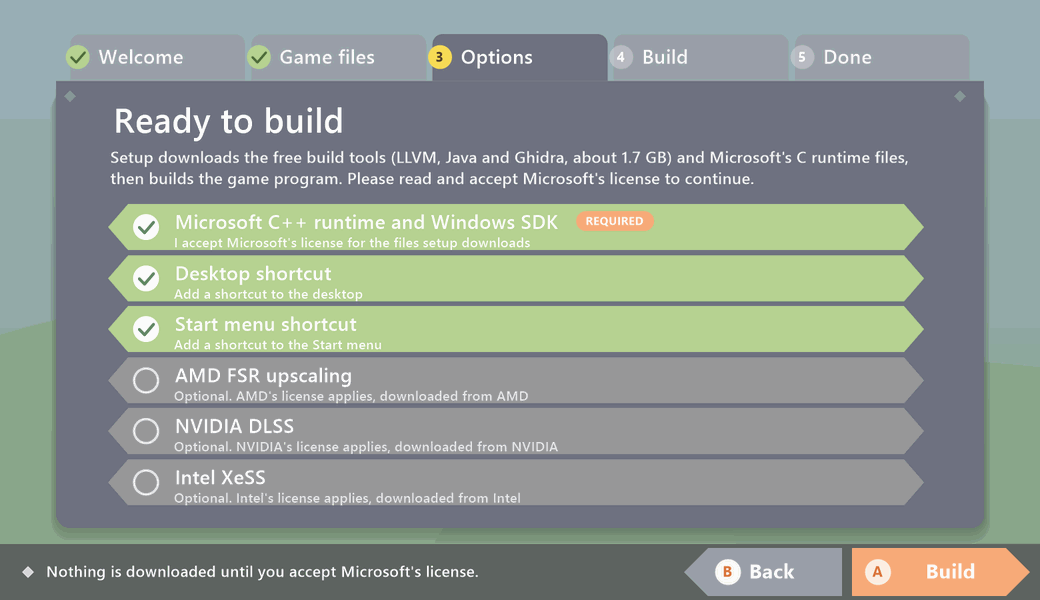
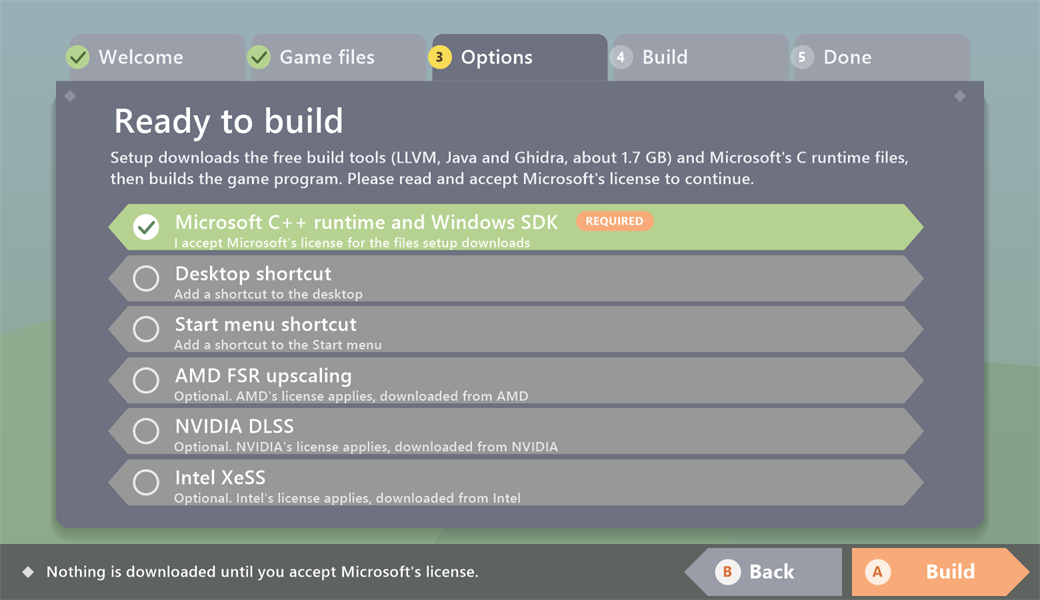
Docs: one exe, the portable install folder, setup flags and launcher-action flags
- docs/install-folder.md (new): what the one exe does, the folder layout, moving the folder, saves from
  1.2.0 and earlier, shortcuts and uninstalling, updates
- docs/command-line.md: launcher actions, setup flags of the top exe, the portable data folder
- README.md, builder/README.md, builder/release/README.md, NOTES_TEMPLATE.md: SnapRecomp.exe is the one
  download; the builder zip is no longer a release asset
- setup screenshots re-rendered from the current wizard (shortcuts start unticked)
- AGENTS.md: the release-standards decisions and what was not verified

Changed region(s): [[0.0923, 0.42, 0.8923, 0.6]]

diff --git a/builder/README.md b/builder/README.md
@@ -6,11 +6,11 @@ This builder turns your own copy of the game into a native Windows program. It r
 
 The project contains no game data and does not help you get any. You need a legal copy of the game, version 2.0.1, and you extract the files from it yourself with your own tools.
 
-You can build two ways. `SnapRecompSetup.exe` (on the release page) is a one-click window: pick your game folder and press Build (see "One-click setup" below). The command line, described in the rest of this file, does the same job. The finished `SnapRecomp.exe` is its own launcher with a window: Play, settings, saves, mods, HD textures, Add to Steam and updates (see "Starting the game" below).
+You can build two ways. `SnapRecomp.exe` (on the release page) is a one-click window until the game is built: pick your game folder and press Build (see "One-click setup" below). After the build the same exe starts the game. The command line, described in the rest of this file, does the same job. The finished `SnapRecomp.exe` is its own launcher with a window: Play, settings, saves, mods, HD textures, Add to Steam and updates (see "Starting the game" below).
 
 ## One-click setup
 
-`SnapRecompSetup.exe` finds your game files, downloads the pinned build tools, builds the game and adds a desktop and a Start menu shortcut. It needs no terminal, no Python and no Visual Studio. The game folder can hold the extracted `main`, `sdk` and RomFS, or your dumped base game (XCI or NSP), your update NSPs and your `prod.keys`. With a raw dump, setup picks the base game and the 2.0.1 update by title ID, ignores older updates and extracts only what it needs into its own work folder. It reads your dump and keys in place: keys are never copied and never written to a log. The Microsoft C runtime and Windows SDK files come from Microsoft after you accept their license in the wizard. Plan on about 30 GB of free disk space and about an hour for the first build. Setup also repairs and uninstalls.
+`SnapRecomp.exe` finds your game files, downloads the pinned build tools and builds the game into its own folder. It needs no terminal, no Python and no Visual Studio. Desktop and Start menu shortcuts are options that start unticked, and setup adds nothing to Windows' installed-apps list ([docs/install-folder.md](../docs/install-folder.md)). The game folder can hold the extracted `main`, `sdk` and RomFS, or your dumped base game (XCI or NSP), your update NSPs and your `prod.keys`. With a raw dump, setup picks the base game and the 2.0.1 update by title ID, ignores older updates and extracts only what it needs into its own work folder. It reads your dump and keys in place: keys are never copied and never written to a log. The Microsoft C runtime and Windows SDK files come from Microsoft after you accept their license in the wizard. Plan on about 30 GB of free disk space and about an hour for the first build. Setup also repairs and uninstalls.
 
 <p align="center">
   <img src="release/screenshots/setup_1_welcome.png" alt="Setup wizard, welcome page" width="49%">
@@ -59,7 +59,7 @@ python builder/snap_builder.py pyenv
 
 - `fetch` asks before every download, shows the URL and the size, checks the SHA-256 while the file arrives, and deletes the file if it does not match. `--yes` answers yes to every question. Without a terminal and without `--yes` it downloads nothing.
 - Files you already have are used without asking when their hash matches. `--offline-dir <folder>` points at a folder of downloaded files, so a PC without internet can use them.
-- Tools unpack into `%LOCALAPPDATA%\SnapRecomp\tools` (change it with `--tools-dir`). The builder looks there after its own `tools` folder.
+- Tools unpack into the `tools` folder next to the downloaded exe, or into `%LOCALAPPDATA%\SnapRecomp\tools` when the builder runs from a source checkout (change it with `--tools-dir`). An install with no `tools` folder yet reuses the tools an older version left in `%LOCALAPPDATA%`.
 - `winsdk --accept-license` fetches the Microsoft C runtime and Windows SDK files with the pinned xwin, from Microsoft's own servers, after you accept Microsoft's license (the license link is in `python builder/snap_builder.py winsdk --help`). Use it when Visual Studio Build Tools is not installed. `build --winsdk vs|xwin|auto` chooses the source, and `auto` (the default) takes Visual Studio first.
 - `pyenv` builds a Python with `capstone`, `pyelftools`, `numpy` and `lz4` from pinned wheels. pip runs with `--require-hashes`, `--no-deps` and `--no-index`, so it installs only the pinned files. It uses the pinned python.org embeddable Python, or `--base-python <python.exe>` makes a venv of Python 3.14 you already have.
 - The download sizes are large: LLVM is about 0.9 GB, Ghidra 0.6 GB and the JDK 0.2 GB. Ghidra, its Switch loader and the JDK are only needed when you do not pass `--maps`.
@@ -95,7 +95,7 @@ A rebuild never touches a working `out/` until the new build is proven. The buil
 
 Each step records what it used. If you run the builder again with the same work folder, finished steps are skipped, and an interrupted compile resumes where it stopped.
 
-The function lists and the generated C are also kept in a private cache, `%LOCALAPPDATA%\SnapRecomp\cache` (`--cache-dir` moves it, `--no-cache` skips it). Entries are keyed on the hashes of your game files and the builder's own inputs, so a new work folder with the same game files restores them instead of running Ghidra or the lifter again. The cache holds game-derived files on your PC only. It refuses a folder it did not create, keeps two entries per kind and stays under 1 GiB.
+The function lists and the generated C are also kept in a private cache, the `cache` folder next to the downloaded exe or `%LOCALAPPDATA%\SnapRecomp\cache` for a source checkout (`--cache-dir` moves it, `--no-cache` skips it). Entries are keyed on the hashes of your game files and the builder's own inputs, so a new work folder with the same game files restores them instead of running Ghidra or the lifter again. The cache holds game-derived files on your PC only. It refuses a folder it did not create, keeps two entries per kind and stays under 1 GiB.
 
 Binary patches are off in this release. If a `builder/patches/` folder ever holds patch files, the builder applies only those listed in `reviewed.json`, only to a module whose hash and build ID match, and only where the original bytes match.
 
@@ -117,7 +117,7 @@ Double-click `SnapRecomp.exe` in the `out` folder. With no command-line argument
 - A small window offers Play, "Change game folder...", "Open save folder", save import and export, upscalers and Updates.
 - Play passes the converted game files and the RomFS path to the game, with no arguments from you.
 - The first launch translates the game's shaders with the `shader_harness` program next to the exe (a self-contained build of the MIT-licensed Ryubing shader translator; its notice is in `shader_harness`). Translated shaders go to `%LOCALAPPDATA%\SnapRecomp\nvn_cache`, so the first start takes several minutes and later starts are fast. The log shows a progress line every 100 shaders.
-- Logs go to `%LOCALAPPDATA%\SnapRecomp\logs`. The icon is an original fallback icon, not the game's.
+- Logs go to `portable_data\Local\SnapRecomp\logs` next to the built exe (`%LOCALAPPDATA%\SnapRecomp\logs` for a development build). The icon is an original fallback icon, not the game's.
 
 ## Function lists
 

diff --git a/builder/release/README.md b/builder/release/README.md
@@ -2,17 +2,17 @@
 
 Works with your own copy of New Pokémon Snap 2.0.1.
 
-This builder turns your own copy of the game into a native Windows program. It reads the files you supply, translates the game's code on your PC, compiles it and links it with the prebuilt runtime in this zip. The result is `SnapRecomp.exe` in the `out` folder of your work folder.
+This builder turns your own copy of the game into a native Windows program. It reads the files you supply, translates the game's code on your PC, compiles it and links it with the prebuilt runtime that ships inside `SnapRecomp.exe`. The result is `SnapRecomp.exe` in the `out` folder of your work folder.
 
-The easy way is `SnapRecompSetup.exe`: double-click it, pick your game folder, press Build. No terminal, no Python and no Visual Studio are needed. The manual command-line route further down still works and does the same job.
+The easy way is the downloaded `SnapRecomp.exe`: put it in a folder of its own, double-click it, pick your game folder, press Build. Everything it makes stays in that folder. No terminal, no Python and no Visual Studio are needed. The manual command-line route further down still works and does the same job.
 
-The program it makes, `SnapRecomp.exe`, opens a launcher window when you double-click it.
+Once the game is built, the same `SnapRecomp.exe` opens the game's launcher window when you double-click it.
 
 The download holds no game data and does not help you get any. You need a legal copy of the game, version 2.0.1, and you dump it yourself with your own tools.
 
 ## One-click setup
 
-1. Double-click `SnapRecompSetup.exe`.
+1. Double-click `SnapRecomp.exe`.
 2. Choose your game folder. Drop it on the window or press Browse. It can be:
    - a folder with the extracted `main`, `sdk` and RomFS, or
    - a folder with your dumped base game (XCI or NSP), your update NSPs and your `prod.keys`.
@@ -20,7 +20,7 @@ The download holds no game data and does not help you get any. You need a legal 
    Setup finds the files itself. With a raw dump it picks the base game and the 2.0.1 update (older updates in the folder are ignored) and extracts what it needs into its own work folder. Your dump is read in place and never changed. Keys are read where they are, never copied, and are not written to any log. If setup looks for `prod.keys` in an emulator folder, it asks first. If the 2.0.1 update is missing it says so and stops.
 3. Check the options and the disk-space line, then press Build. One bar shows the stage and the time left. "Show details" opens the log. If something fails, the message says what to do and Retry picks up where it stopped. Closing setup or a reboot loses nothing: start it again and it continues.
 4. Setup downloads the build tools from their publishers and checks every file against a pinned SHA-256 hash. The Windows SDK pieces come from Microsoft after you accept Microsoft's license in the wizard. They are not in the download.
-5. At the end you get a desktop and a Start menu shortcut and a Play now button. HD textures and upscalers are optional pages; each vendor license is shown before anything downloads.
+5. At the end you get a Play now button. Desktop and Start menu shortcuts are made only when you tick them on the options page. HD textures and upscalers are optional pages; each vendor license is shown before anything downloads.
 
 ![Setup: welcome](screenshots/setup_1_welcome.png)
 ![Setup: options and disk space](screenshots/setup_3_options.png)
@@ -29,7 +29,7 @@ The download holds no game data and does not help you get any. You need a legal 
 
 Setup remembers your game folder. A repair, a rebuild or an update reuses it without asking. "Change game folder" is on the maintenance page. If the files moved, it asks once.
 
-Run `SnapRecompSetup.exe` again later to Repair (rebuild with the same game files) or Uninstall (removes the shortcuts, the built program and the game data setup extracted; the build tools and your saves stay unless you tick the matching box; your own game files are never touched). Nothing is deleted behind your back while the game is installed: the extracted RomFS stays, because the game reads it every time it runs.
+Run `SnapRecomp.exe --setup` later to Repair (rebuild with the same game files) or Uninstall (removes the shortcuts, the built program and the game data setup extracted; the build tools and your saves stay unless you tick the matching box; your own game files are never touched). Nothing is deleted behind your back while the game is installed: the extracted RomFS stays, because the game reads it every time it runs.
 
 Time: the first build takes about an hour on a fast PC, most of it the Ghidra step (15 to 30 minutes) and the compile. The last step starts the new game once to check it reaches the title screen. That first start translates the game's shaders and takes about 8 minutes, so setup waits up to 20 minutes before it calls it a failure. A rebuild with the same game files takes a few minutes.
 
@@ -55,7 +55,7 @@ Everything above can be done from a terminal. The sections below describe that r
 | A Vulkan 1.3 graphics driver | Needed to run the game and for the last build step. |
 | Python 3.14 | Only to start the builder. The builder installs its own pinned Python packages with `pyenv`. Python 3.14 is what was tested. |
 | Microsoft C runtime and Windows SDK files | Either Visual Studio Build Tools 2022 (the "Desktop development with C++" workload, free from Microsoft), or the files that `python builder\snap_builder.py winsdk --accept-license` downloads from Microsoft after you accept their license. `build --winsdk auto` (the default) uses Visual Studio when it is installed. |
-| Your game files | For the command line: `main` and `sdk` from the game's program files, and the patched RomFS folder, all from version 2.0.1. `SnapRecompSetup.exe` also takes your dumped base game (XCI or NSP), the update NSPs and your `prod.keys`. |
+| Your game files | For the command line: `main` and `sdk` from the game's program files, and the patched RomFS folder, all from version 2.0.1. The one-click setup also takes your dumped base game (XCI or NSP), the update NSPs and your `prod.keys`. |
 | Disk and memory | About 15 GB free on the drive that holds the tools, the work folder and the caches (measured on a clean PC: the unpacked tools 5.5 GB plus 1.6 GB of kept downloads, the work folder 3 GB, the builder's caches 0.6 GB, and the shader cache about 2 GB after the first start). 16 GB of RAM for the Ghidra step, 8 GB without it. |
 | Internet, once | To download the pinned build tools and, if you choose, upscalers. |
 
@@ -97,7 +97,7 @@ The first start translates the game's shaders and takes several minutes. Later s
 
 ## What it never does
 
-- It never copies, uploads or ships your game files. It reads them and writes only inside the work folder and its own caches (`%LOCALAPPDATA%\SnapRecomp`).
+- It never copies, uploads or ships your game files. It reads them and writes only inside the folder the exe is in (a builder run from the command line: its work folder and `%LOCALAPPDATA%\SnapRecomp`).
 - It never downloads anything without asking, and it checks every download against a published hash.
 - Upscalers (FSR, DLSS, XeSS) are not in this zip. The launcher can fetch them from their publishers after you read and accept each license.
 

diff --git a/AGENTS.md b/AGENTS.md
@@ -757,3 +757,15 @@ Fx verdict (2026-11-14, worker "fx"): contact shadows DROPPED as a user option (
 ## Player cheats (2026-11-15, worker "access")
 
 - F1 menu tab "Cheats" (`runtime/ui/ui_cheats.cpp`) over `runtime/hle/cheats.{h,cpp}`; Atmosphere-format VM from Codex's patch in `runtime/hle/cheat/` (own tests, `build.bat`; `cheat_vm.cpp` is compiled by unity include from `cheats.cpp` because the build globs only `runtime/hle/*.cpp`). File: `cheats/<build id>.txt` (full id or its first 16 chars) next to the exe; `SNAP_CHEATS` / key `cheats_enabled` master switch (off by default, file not even read), `SNAP_CHEATS_ON` / key `cheats_on` enabled names joined with `|`, `SNAP_CHEATS_DIR` for tests. Runs once per presented frame from `hid.cpp::write_npad_state`; memory goes through `VirtualQuery`-checked host pointers (heap base from `runtime/os/cheat_heap.cpp`, main/ASLR `0x7100000000`, no alias region), keys from `input::hub().pad().buttons` (the Switch key layout the cheat format uses). A bad address fails that run, logs the line once and switches that cheat off (the others keep running); it never crashes. This game never sets a memory heap (log `cheats: memory heap base 0`), so heap-addressed cheats fail; main-addressed ones work. No cheat file ships and none came from the internet. `Cheats active: yes/no` is in the problem report's `system.txt`. Native Settings row not done (rows are fixed, the list comes from a file). Details and verification: `docs/cheats.md`.
+
+## Release standards: one exe, portable, CLI flags (2026-11-17, worker "cliflags")
+
+Owner decisions of 2026-11-17, following `F:\AI\Recomps\AGENTS.md`. Player docs: `docs/install-folder.md`, `docs/command-line.md`.
+
+- **One exe.** The release asset is `SnapRecomp.exe` plus `SnapRecomp.exe.sig` (`builder/release_setup.py`): the setup program (`setup/setup_main.cpp`), then the builder as a zip, then a 16-byte trailer (payload size, `SNPSET01`). With no finished build in its folder (`work\out\SnapRecomp.exe` and `config.json`) it is the setup. With one it starts the built exe in a job object and passes flags, standard output and the exit code through. The builder zip is no longer a release asset.
+- **Portable by default.** The builder writes `portable.txt` into `out`, so saves, settings, mods, caches and logs live in `work\out\portable_data`. The setup folder, tools, cache and updater state sit under the exe's folder (`builder/snapbuild/paths.py`). The first portable start copies `%APPDATA%\SnapRecomp` (copy, never move) and says where saves now live (`host/portable.cpp`). A moved folder is corrected on the next start (`install_root` and `exe_rel` in `config.json`).
+- **No registry entry, shortcuts unticked.** Setup removes the installed-apps entry an older version made and makes a shortcut only when asked. Shortcuts point at the top exe.
+- **Updater.** `builder/snapbuild/update.py` verifies the signed exe, unpacks its payload, rebuilds, then renames the running top exe (named by `SNAP_TOP_EXE`) to `.old` and puts the new one in place. There is no bridge release: v1.2.0 players download the new exe by hand.
+- **Flags.** Game exe: `host/cli_flags.h` (player flags and the launcher actions `--update`, `--check-install`, `--report`, `--restore-backup`, `--upscalers`, `--hdtex`). Top exe: `--game`, `--build-dir`, `--yes`, `--setup`, `--repair`, `--uninstall`, `--desktop-shortcut`, `--start-menu-shortcut`.
+- **Tests.** `tests/hle/one_exe_test.py`, `folder_move_test.py`, `wizard_folder_test.py`, `portable_default_test.py`, `cli_flags_test.cpp`, `cli_flags_exe_test.py`; `builder/tests/test_update_exe.py`, `test_paths.py`, `test_setup_engine.py`.
+- **Not verified.** A full setup-to-game build through the one exe (about an hour) and an update against a real published one-exe release have not been run. The Linux tarball and AppImage standard (item 3 of the workspace standards) does not apply yet: there is no Linux build.

diff --git a/docs/install-folder.md b/docs/install-folder.md
@@ -1,0 +1,50 @@
+# The install folder
+
+A release is one file, `SnapRecomp.exe`. Put it in a folder of its own, on a drive with about 30 GB free, and start it. Everything it makes stays in that folder. Deleting the folder removes the game, your saves included.
+
+## What the exe does
+
+| State of its folder | What starting the exe does |
+| --- | --- |
+| No finished build | Opens the setup. It builds the game from your own game files into `work\out`. |
+| A finished build | Starts the game's launcher, the same as starting `work\out\SnapRecomp.exe` yourself. |
+
+Flags, text output and the exit code pass through to the game, so `SnapRecomp.exe --play --fullscreen` works from the top folder. Stopping the top exe stops the game it started. The flags the top exe keeps for itself are in [command-line.md](command-line.md#setup-flags).
+
+## What is in the folder
+
+```
+SnapRecomp.exe                               the file you downloaded
+setup\                                       the unpacked builder and the setup's own settings
+tools\                                       the build tools setup downloads (compiler, Ghidra, JDK)
+cache\                                       reusable build results
+work\                                        the build
+work\out\SnapRecomp.exe                      the built game
+work\out\portable_data\Roaming\SnapRecomp    saves, settings, profiles, mods, screenshots
+work\out\portable_data\Local\SnapRecomp      shader cache, logs
+work\updates\                                the updater's downloads and the previous version
+```
+
+Older docs name `%APPDATA%\SnapRecomp` and `%LOCALAPPDATA%\SnapRecomp`. In a release build read those as `work\out\portable_data\Roaming\SnapRecomp` and `work\out\portable_data\Local\SnapRecomp`. A development build started from a source checkout has no `portable.txt` and still uses the two Windows folders.
+
+## Moving the folder
+
+Close the game, move the whole folder, and start `SnapRecomp.exe` from the new place. The game corrects its saved paths on that start and prints `the game folder was moved; config.json now points at the new place`. Your game files are read where setup found them. If they sat outside the folder and you moved them too, pick the new game folder in the launcher.
+
+## Saves from version 1.2.0 and earlier
+
+Those versions kept saves in `%APPDATA%\SnapRecomp`. The first start of a newer version copies that folder into `work\out\portable_data` and tells you where your saves now live. It is a copy: the old folder is only read and stays as a backup. The shader cache and the updater's backups are not copied. Delete the old folder yourself once you have seen your save in the new version.
+
+The updater in 1.2.0 cannot install a one-exe release. Download the new `SnapRecomp.exe` by hand, put it in a new folder and run setup once. An older install reuses the build tools it left in `%LOCALAPPDATA%\SnapRecomp\tools`, so they are not downloaded again.
+
+## Shortcuts and uninstalling
+
+Setup makes no shortcut unless you tick one on its options page. A shortcut points at the top `SnapRecomp.exe`. Setup adds no entry to Windows' installed-apps list and removes the entry an older version made.
+
+To remove the game, delete the folder. `SnapRecomp.exe --uninstall` removes only the build and any shortcuts, and keeps your saves and the build tools.
+
+## Updates
+
+Updates in the launcher, or `SnapRecomp.exe --update`, downloads the new `SnapRecomp.exe`, checks its signature, rebuilds the game and then swaps the top exe for the new one. The old top exe is kept as `SnapRecomp.exe.old` until the next start. When the rebuild fails, nothing is swapped and the old version keeps working.
+
+Started directly from `work\out`, the game still updates its own build, but it cannot replace a top exe it was not started from. Download the new one by hand in that case.

diff --git a/docs/command-line.md b/docs/command-line.md
@@ -60,9 +60,45 @@ Other keys from `settings.cfg` work too. Safe mode still ignores the settings it
 
 ## Data folder
 
-`--data-dir <folder>` puts everything the game writes under that folder: `Roaming\SnapRecomp` holds saves, settings, profiles and mods, and `Local\SnapRecomp` holds caches and logs. Nothing is copied from the normal data folder, so a new folder starts with a fresh save. Import one with `--import-save` and the same `--data-dir`.
+A release build keeps everything the game writes in `portable_data` next to the built exe: `Roaming\SnapRecomp` holds saves, settings, profiles and mods, and `Local\SnapRecomp` holds caches and logs. The `portable.txt` file next to the built exe switches this on. [install-folder.md](install-folder.md) shows the whole folder.
 
-A `portable.txt` file next to the exe does the same with a `portable_data` folder beside the exe. `--data-dir` wins when both are present.
+`--data-dir <folder>` uses that folder in place of `portable_data`, with the same two subfolders. Nothing is copied into it, so a new folder starts with a fresh save. Import one with `--import-save` and the same `--data-dir`.
+
+## Launcher actions
+
+Each of these does one launcher job without the launcher window. The game does not start. Use one at a time, without `--play`.
+
+| Flag | What it does |
+| --- | --- |
+| `--update` | Installs the newest version. The update runs in its own window. Exit code 0 means it started, 1 means the builder is missing. |
+| `--check-install` | Checks the game files and prints the result. Exit code 0 when everything is in order, 1 when something is wrong. |
+| `--report` | Makes the problem report zip and prints its path. Nothing is uploaded. |
+| `--restore-backup` | Opens the list of save backups. |
+| `--upscalers` | Opens the DLSS, FSR and XeSS downloads. |
+| `--hdtex` | Opens the HD texture tools. |
+
+## Setup flags
+
+The `SnapRecomp.exe` you download answers these itself. Every other flag goes to the built game.
+
+| Flag | What it does |
+| --- | --- |
+| `--game <folder>` | The folder with your game files. Setup opens with it chosen. |
+| `--build-dir <folder>` | Where the build goes and where the exe looks for it. The default is the exe's own folder. |
+| `--yes` | Builds without questions: accepts Microsoft's C runtime license, uses the defaults and closes when done. Exit code 0 means built, 1 failed, 2 no `--game` given. |
+| `--setup` | Opens setup even when the game is built. |
+| `--repair` | Rebuilds from the game files chosen before. |
+| `--uninstall` | Removes the build. With `--yes` it does not ask, and it keeps saves and build tools. |
+| `--desktop-shortcut`, `--start-menu-shortcut` | With `--yes`: also make that shortcut. Neither is made by default. |
+
+A launcher that manages the game itself can build and start it with two lines:
+
+```
+SnapRecomp.exe --game D:\Dumps\Snap --build-dir D:\Games\Snap --yes
+SnapRecomp.exe --build-dir D:\Games\Snap --play --fullscreen
+```
+
+Before a build exists, `--help` and `--version` print the setup's own text.
 
 ## Other commands
 

diff --git a/README.md b/README.md
@@ -208,7 +208,7 @@ Each pair is captured at the same point on the ride, so the camera matches; the 
 
 ## Build it yourself
 
-Snap Recomp Builder turns your own copy of New Pokémon Snap 2.0.1 into `SnapRecomp.exe`. The easy way is `SnapRecompSetup.exe` from the [latest release](https://github.com/finalpantasy/new-pokemon-snap-recomp/releases/latest): double-click it, pick your game folder and press Build. Setup takes a folder of extracted files (`main`, `sdk`, RomFS) or a folder with your dumped base game (XCI or NSP), the 2.0.1 update NSP and your `prod.keys`. It reads them in place and extracts only what it needs. The command-line route uses `SnapRecomp-Builder-v<version>-win-x64.zip` from the same page. Both hold only our code and prebuilt runtime objects, no game data. See the license and release-history notes below.
+The [latest release](https://github.com/finalpantasy/new-pokemon-snap-recomp/releases/latest) is one file, `SnapRecomp.exe`. Put it in a folder of its own and double-click it. The first time it is the setup: pick your game folder and press Build, and it turns your own copy of New Pokémon Snap 2.0.1 into the game. After that the same exe starts the game. The build, your saves, settings and logs all stay in that folder, so deleting the folder removes everything ([docs/install-folder.md](docs/install-folder.md)). Setup takes a folder of extracted files (`main`, `sdk`, RomFS) or a folder with your dumped base game (XCI or NSP), the 2.0.1 update NSP and your `prod.keys`. It reads them in place and extracts only what it needs. The exe holds only our code and prebuilt runtime objects, no game data. The command-line builder is inside it: setup unpacks it to `setup\app\<version>` next to the exe. See the license and release-history notes below.
 
 <p align="center">
   <img src="builder/release/screenshots/setup_1_welcome.png" alt="Setup wizard, welcome page" width="49%">
@@ -223,6 +223,8 @@ For the command-line route you need Windows 10 or 11 x64, a Vulkan 1.3 driver, P
    Without Visual Studio Build Tools, also run `python builder\snap_builder.py winsdk --accept-license` once.
 4. `python builder\snap_builder.py build --main <main> --sdk <sdk> --romfs <romfs folder> --work <new empty folder>`
 5. Double-click `<work folder>\out\SnapRecomp.exe`.
+
+Other launchers can do all of this without our windows: `SnapRecomp.exe --game <folder> --yes` builds, `SnapRecomp.exe --play` starts the game, and every launcher option has a flag ([docs/command-line.md](docs/command-line.md)).
 
 The first build takes 25 to 50 minutes, most of it Ghidra and compiling. The first start translates shaders and takes several minutes.
 

diff --git a/builder/release/NOTES_TEMPLATE.md b/builder/release/NOTES_TEMPLATE.md
@@ -24,4 +24,4 @@ Updating keeps your saves and settings. Before anything changes, the updater cop
 
 ## Install or update
 
-Run SnapRecompSetup.exe, or open the launcher and choose Updates. The Testing channel in the launcher's Updates page also offers early builds; Stable is the default.
+New install: put SnapRecomp.exe in a folder of its own and run it. Update: open the launcher and choose Updates. Version 1.2.0 and earlier cannot update to a one-exe release; download SnapRecomp.exe by hand, and your saves are copied over on the first start. The Testing channel in the launcher's Updates page also offers early builds; Stable is the default.
